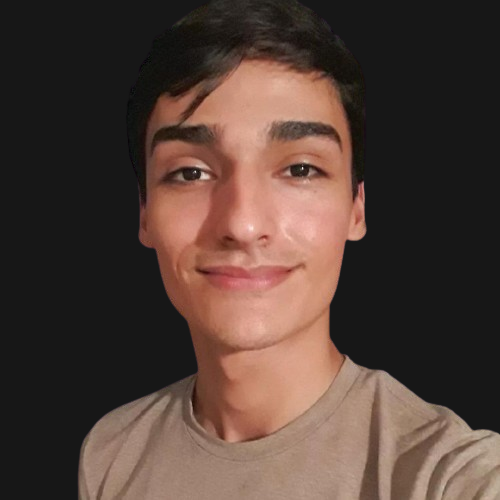
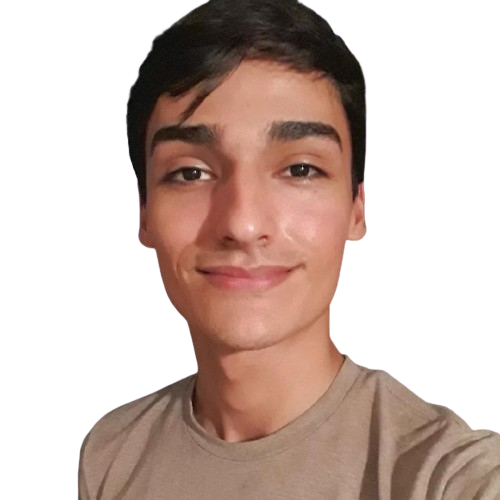
fondo welcome

diff --git a/src/components/specific/welcome/Welcome.jsx b/src/components/specific/welcome/Welcome.jsx
@@ -1,19 +1,17 @@
 import React from 'react'
-import { customContainer, iconSocial, socialMedia, title, infoContainer, subtitle } from './welcome.module.css'
+import { customContainer, iconSocial, socialMedia, title, infoContainer, subtitle, imgClass } from './welcome.module.css'
 import { Link } from 'react-router-dom'
+import fondo from "../../../assets/fondo.jpg"
 
 const Welcome = () => {
   return (
     <section className={`container ${customContainer}`} id="home">
 
       <div className={`d-flex flex-column align-items-center`}>
-
         <div className={infoContainer}>
           <h2 className={title}>BIENVENIDOS <span className='fw-bold'>SOY AGUSTIN</span></h2>
           <p className={subtitle}>DESARROLLADOR FULL STACK</p>
         </div>
-
-
       </div>
 
       <div className={iconSocial}>
@@ -29,6 +27,8 @@ const Welcome = () => {
           <p className={`${socialMedia} fw-bold`}>CV</p>
         </Link>
       </div>
+
+      <img src={fondo} className={imgClass} alt="Imagen de fondo" />
 
     </section>
   )

diff --git a/src/components/specific/welcome/welcome.module.css b/src/components/specific/welcome/welcome.module.css
@@ -52,6 +52,14 @@
   color: rgb(134, 45, 216);
 }
 
+.imgClass {
+  width: 210px;
+  position: absolute;
+  right: 0;
+  bottom: 0;
+  z-index: -2;
+}
+
 @media (min-width: 760px) {
   .title {
     font-size: 57px;
@@ -65,6 +73,10 @@
 @media (min-width: 1000px) {
   .infoContainer {
     width: 500px;
+  }
+
+  .imgClass {
+    width: 450px;
   }
 
   .title {

diff --git a/src/components/specific/aboutMe/aboutMe.module.css b/src/components/specific/aboutMe/aboutMe.module.css
@@ -19,8 +19,8 @@
 }
 
 .imgClass {
+  border-radius: 50%;
   width: 300px;
-  border-radius: 500px;
   margin-bottom: 60px;
 }
 
@@ -42,7 +42,7 @@
   }
 
   .imgClass {
-    width: 300px;
+    width: 350px;
   }
 
 }
